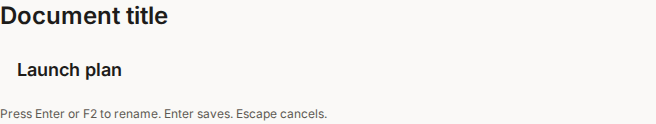
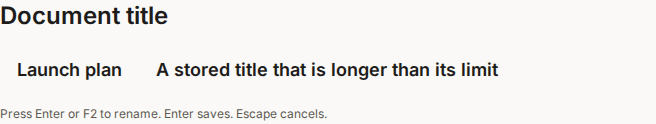
[DESIGN-15] Fix the second round of review minors
Close a title field with no change without a check, so a long stored
title does not trap a person who never edited it. Match the word agent
whole in a badge label. Stack the side panel under the content below
64rem, so the content keeps its room. Say in the docs that a title
belongs in the top bar, not in a dialog. Tidy two test names.

Changed region(s): [[0.2134, 0.5081, 0.7622, 0.6532]]

diff --git a/e2e/chrome.ui.spec.ts b/e2e/chrome.ui.spec.ts
@@ -81,6 +81,16 @@ test("a blank or hidden-character title is refused with a message", async ({ pag
   await expect(page.getByRole("button", { name: "Launch plan, rename" })).toBeFocused();
 });
 
+test("a stored title over the limit can be opened and left without a change", async ({ page }) => {
+  await page.goto("/chrome");
+  const long = "A stored title that is longer than its limit";
+  await page.getByRole("button", { name: `${long}, rename` }).click();
+  await expect(page.getByRole("textbox", { name: "Imported title" })).toHaveValue(long);
+  await page.getByRole("heading", { name: "Document title" }).click();
+  await expect(page.getByRole("button", { name: `${long}, rename` })).toBeVisible();
+  await expect(page.getByRole("alert")).toHaveCount(0);
+});
+
 test("leaving the field saves a good title", async ({ page }) => {
   await page.goto("/chrome");
   await page.getByRole("button", { name: "Launch plan, rename" }).click();
@@ -95,7 +105,8 @@ test("the toolbar has named groups, one tab stop, and an overflow menu in the sa
   await expect(toolbar.getByRole("group", { name: "Text style" })).toBeVisible();
   await expect(toolbar.getByRole("group", { name: "Insert" })).toBeVisible();
 
-  await page.getByRole("button", { name: "Launch plan, rename" }).focus();
+  // The imported title is the last tab stop before the toolbar.
+  await page.getByRole("button", { name: /^A stored title.*, rename$/ }).focus();
   await page.keyboard.press("Tab");
   await expect(toolbar.locator(":focus")).toHaveCount(1);
   await page.keyboard.press("Tab");
@@ -130,13 +141,12 @@ test("the badge says it in words and keeps the facts when only the avatar fits",
   expect(await radius(compact)).not.toBe("9999px");
 });
 
-test("in forced colors the badge and the title field keep their lines", async ({ page }) => {
+test("in forced colors the badge keeps its line and the title field keeps its focus outline", async ({ page }) => {
   await page.emulateMedia({ forcedColors: "active" });
   await page.goto("/chrome");
   const border = (selector: string) => page.locator(selector).first().evaluate((n) => getComputedStyle(n).borderTopColor);
   expect(await border(".ad-agent-badge:not(.ad-agent-badge--compact)")).not.toBe("rgba(0, 0, 0, 0)");
   await page.getByRole("button", { name: "Launch plan, rename" }).click();
-  expect(await border(".ad-title__input")).not.toBe("rgba(0, 0, 0, 0)");
   const outline = await page.getByRole("textbox", { name: "Document title" }).evaluate((n) => getComputedStyle(n).outlineStyle);
   expect(outline).not.toBe("none");
 });
@@ -153,7 +163,16 @@ test("the side panel is a landmark, sits after the content, and falls under it o
   expect(await page.evaluate(() => document.documentElement.scrollWidth > window.innerWidth)).toBe(false);
 });
 
-test("in a right-to-left page the panel moves to the start side and arrow keys follow", async ({ page }) => {
+test("between 48rem and 64rem the panel sits under the content and the content keeps its room", async ({ page }) => {
+  await page.setViewportSize({ width: 900, height: 800 });
+  await page.goto("/chrome");
+  const [p, m] = [await page.getByRole("complementary", { name: "Notes" }).boundingBox(), await page.getByRole("main").boundingBox()];
+  expect((p?.y ?? 0) >= (m?.y ?? 0) + (m?.height ?? 0) - 1).toBe(true);
+  expect((m?.width ?? 0) > 500).toBe(true);
+  expect(await page.evaluate(() => document.documentElement.scrollWidth > window.innerWidth)).toBe(false);
+});
+
+test("in a right-to-left page the panel moves to the start side", async ({ page }) => {
   await page.goto("/chrome");
   await page.evaluate(() => document.documentElement.setAttribute("dir", "rtl"));
   const [p, m] = [await page.getByRole("complementary", { name: "Notes" }).boundingBox(), await page.getByRole("main").boundingBox()];

diff --git a/src/styles/components.css b/src/styles/components.css
@@ -375,14 +375,18 @@
 .ad-shell__actions { display: flex; align-items: center; gap: var(--ad-space-4); margin-inline-start: auto; }
 .ad-shell__content { grid-area: content; min-width: 0; padding: var(--ad-space-8) var(--ad-space-6) var(--ad-space-24); outline: none; }
 .ad-shell__menu { display: none; }
-.ad-shell[data-panel] { grid-template-columns: var(--ad-size-sidebar) minmax(0, 1fr) var(--ad-size-panel); grid-template-areas: "sidebar topbar topbar" "sidebar content panel"; }
-.ad-shell__panel { grid-area: panel; min-width: 0; padding: var(--ad-space-6) var(--ad-space-4); border-inline-start: 1px solid var(--ad-color-border); background: var(--ad-color-surface-sunken); }
+/* With the sidebar and the panel both beside it, the content needs room. Below 64rem the panel sits under the content. */
+.ad-shell[data-panel] { grid-template-rows: auto 1fr auto; grid-template-areas: "sidebar topbar" "sidebar content" "sidebar panel"; }
+@media (min-width: 64rem) {
+  .ad-shell[data-panel] { grid-template-columns: var(--ad-size-sidebar) minmax(0, 1fr) var(--ad-size-panel); grid-template-rows: auto 1fr; grid-template-areas: "sidebar topbar topbar" "sidebar content panel"; }
+}
+.ad-shell__panel { grid-area: panel; min-width: 0; padding: var(--ad-space-6) var(--ad-space-4); border-block-start: 1px solid var(--ad-color-border); background: var(--ad-color-surface-sunken); }
+@media (min-width: 64rem) { .ad-shell__panel { border-block-start: 0; border-inline-start: 1px solid var(--ad-color-border); } }
 /* On a narrow screen the sidebar sits below the top bar, under the button that opens it. */
 @media (max-width: 47.99rem) {
   .ad-shell { grid-template-columns: minmax(0, 1fr); grid-template-rows: auto auto 1fr; grid-template-areas: "topbar" "sidebar" "content"; }
   .ad-shell__menu { display: inline-flex; }
   .ad-shell[data-panel] { grid-template-columns: minmax(0, 1fr); grid-template-rows: auto auto 1fr auto; grid-template-areas: "topbar" "sidebar" "content" "panel"; }
-  .ad-shell__panel { border-inline-start: 0; border-block-start: 1px solid var(--ad-color-border); }
   .ad-shell__sidebar[data-open="false"] { display: none; }
   .ad-shell__sidebar { border-inline-end: 0; border-bottom: 1px solid var(--ad-color-border); }
   .ad-shell__topbar, .ad-shell__content { padding-inline: var(--ad-space-4); }

diff --git a/src/components/document-title.tsx b/src/components/document-title.tsx
@@ -18,6 +18,7 @@ export interface DocumentTitleProps {
  * A title that renames in place. A button shows the name. Enter, Space, or F2 opens a field.
  * Enter or leaving the field saves. Escape cancels and returns focus to the button. A blank or
  * unsafe title is refused with a message that says what to fix, and the field stays open.
+ * Put it in the top bar. Inside a dialog, Escape also closes the dialog.
  */
 export function DocumentTitle({ value, onRename, label = "Document title", readOnly = false, maxLength = 120, className }: DocumentTitleProps) {
   // The stored title may come from a peer. A title with a hidden character shows as untitled.
@@ -58,6 +59,8 @@ export function DocumentTitle({ value, onRename, label = "Document title", readO
   /** Returns true when the field may close. */
   const commit = (): boolean => {
     const next = draft.trim();
+    // Nothing changed, so there is nothing to check. A long stored title must not trap a person who never edited it.
+    if (next === shown) return true;
     if (next === "") {
       setError("Enter a title.");
       return false;
@@ -71,7 +74,7 @@ export function DocumentTitle({ value, onRename, label = "Document title", readO
       setError(/\s{2,}|(?! )\p{Zs}/u.test(next) ? "Use single spaces only." : "Use letters, numbers, and punctuation, with no hidden characters.");
       return false;
     }
-    if (next !== shown) onRename(next);
+    onRename(next);
     return true;
   };
 

diff --git a/e2e/chrome.spec.ts b/e2e/chrome.spec.ts
@@ -37,6 +37,11 @@ test("a badge label that does not say agent is refused", () => {
   expect(() => html(createElement(AgentBadge, { label: "Draft" }))).toThrow('must say "agent"');
 });
 
+test("a badge label that has agent only inside another word is refused", () => {
+  for (const label of ["Approved by management", "Reagent list"]) expect(() => html(createElement(AgentBadge, { label }))).toThrow('must say "agent"');
+  expect(html(createElement(AgentBadge, { label: "Edited by agents" }))).toContain("Edited by agents");
+});
+
 test("a panel that is false or null draws no panel, and no label is needed", () => {
   const shell = (panel: null | false) => html(createElement(AppShell, { brand: "x", sidebar: null, panel, panelLabel: "Notes", children: null }));
   for (const panel of [false, null] as const) {

diff --git a/src/components/agent-badge.tsx b/src/components/agent-badge.tsx
@@ -21,7 +21,7 @@ export interface AgentBadgeProps {
  */
 export function AgentBadge({ name, actingFor, label = "Made by an agent", compact = false, className }: AgentBadgeProps) {
   // The word is the signal. A label without it would hide that an agent made the thing.
-  if (!/agent/i.test(label)) throw new Error('An agent badge label must say "agent".');
+  if (!/\bagents?\b/i.test(label)) throw new Error('An agent badge label must say "agent".');
   const agent = displayName({ name: name ?? "", kind: "agent" });
   const who = name === undefined ? null : agent;
   const owner = actingFor === undefined ? "unknown" : (usableName(actingFor) ?? "Unnamed person");

diff --git a/src/demo/chrome-page.tsx b/src/demo/chrome-page.tsx
@@ -17,6 +17,7 @@ export function ChromePage() {
       <section aria-labelledby="doc-title" id="demo-title">
         <h2 id="doc-title">Document title</h2>
         <DocumentTitle value={title} onRename={setTitle} />
+        <DocumentTitle value="A stored title that is longer than its limit" label="Imported title" maxLength={20} onRename={() => undefined} />
         <p className="demo-muted demo-note">Press Enter or F2 to rename. Enter saves. Escape cancels.</p>
       </section>
 
